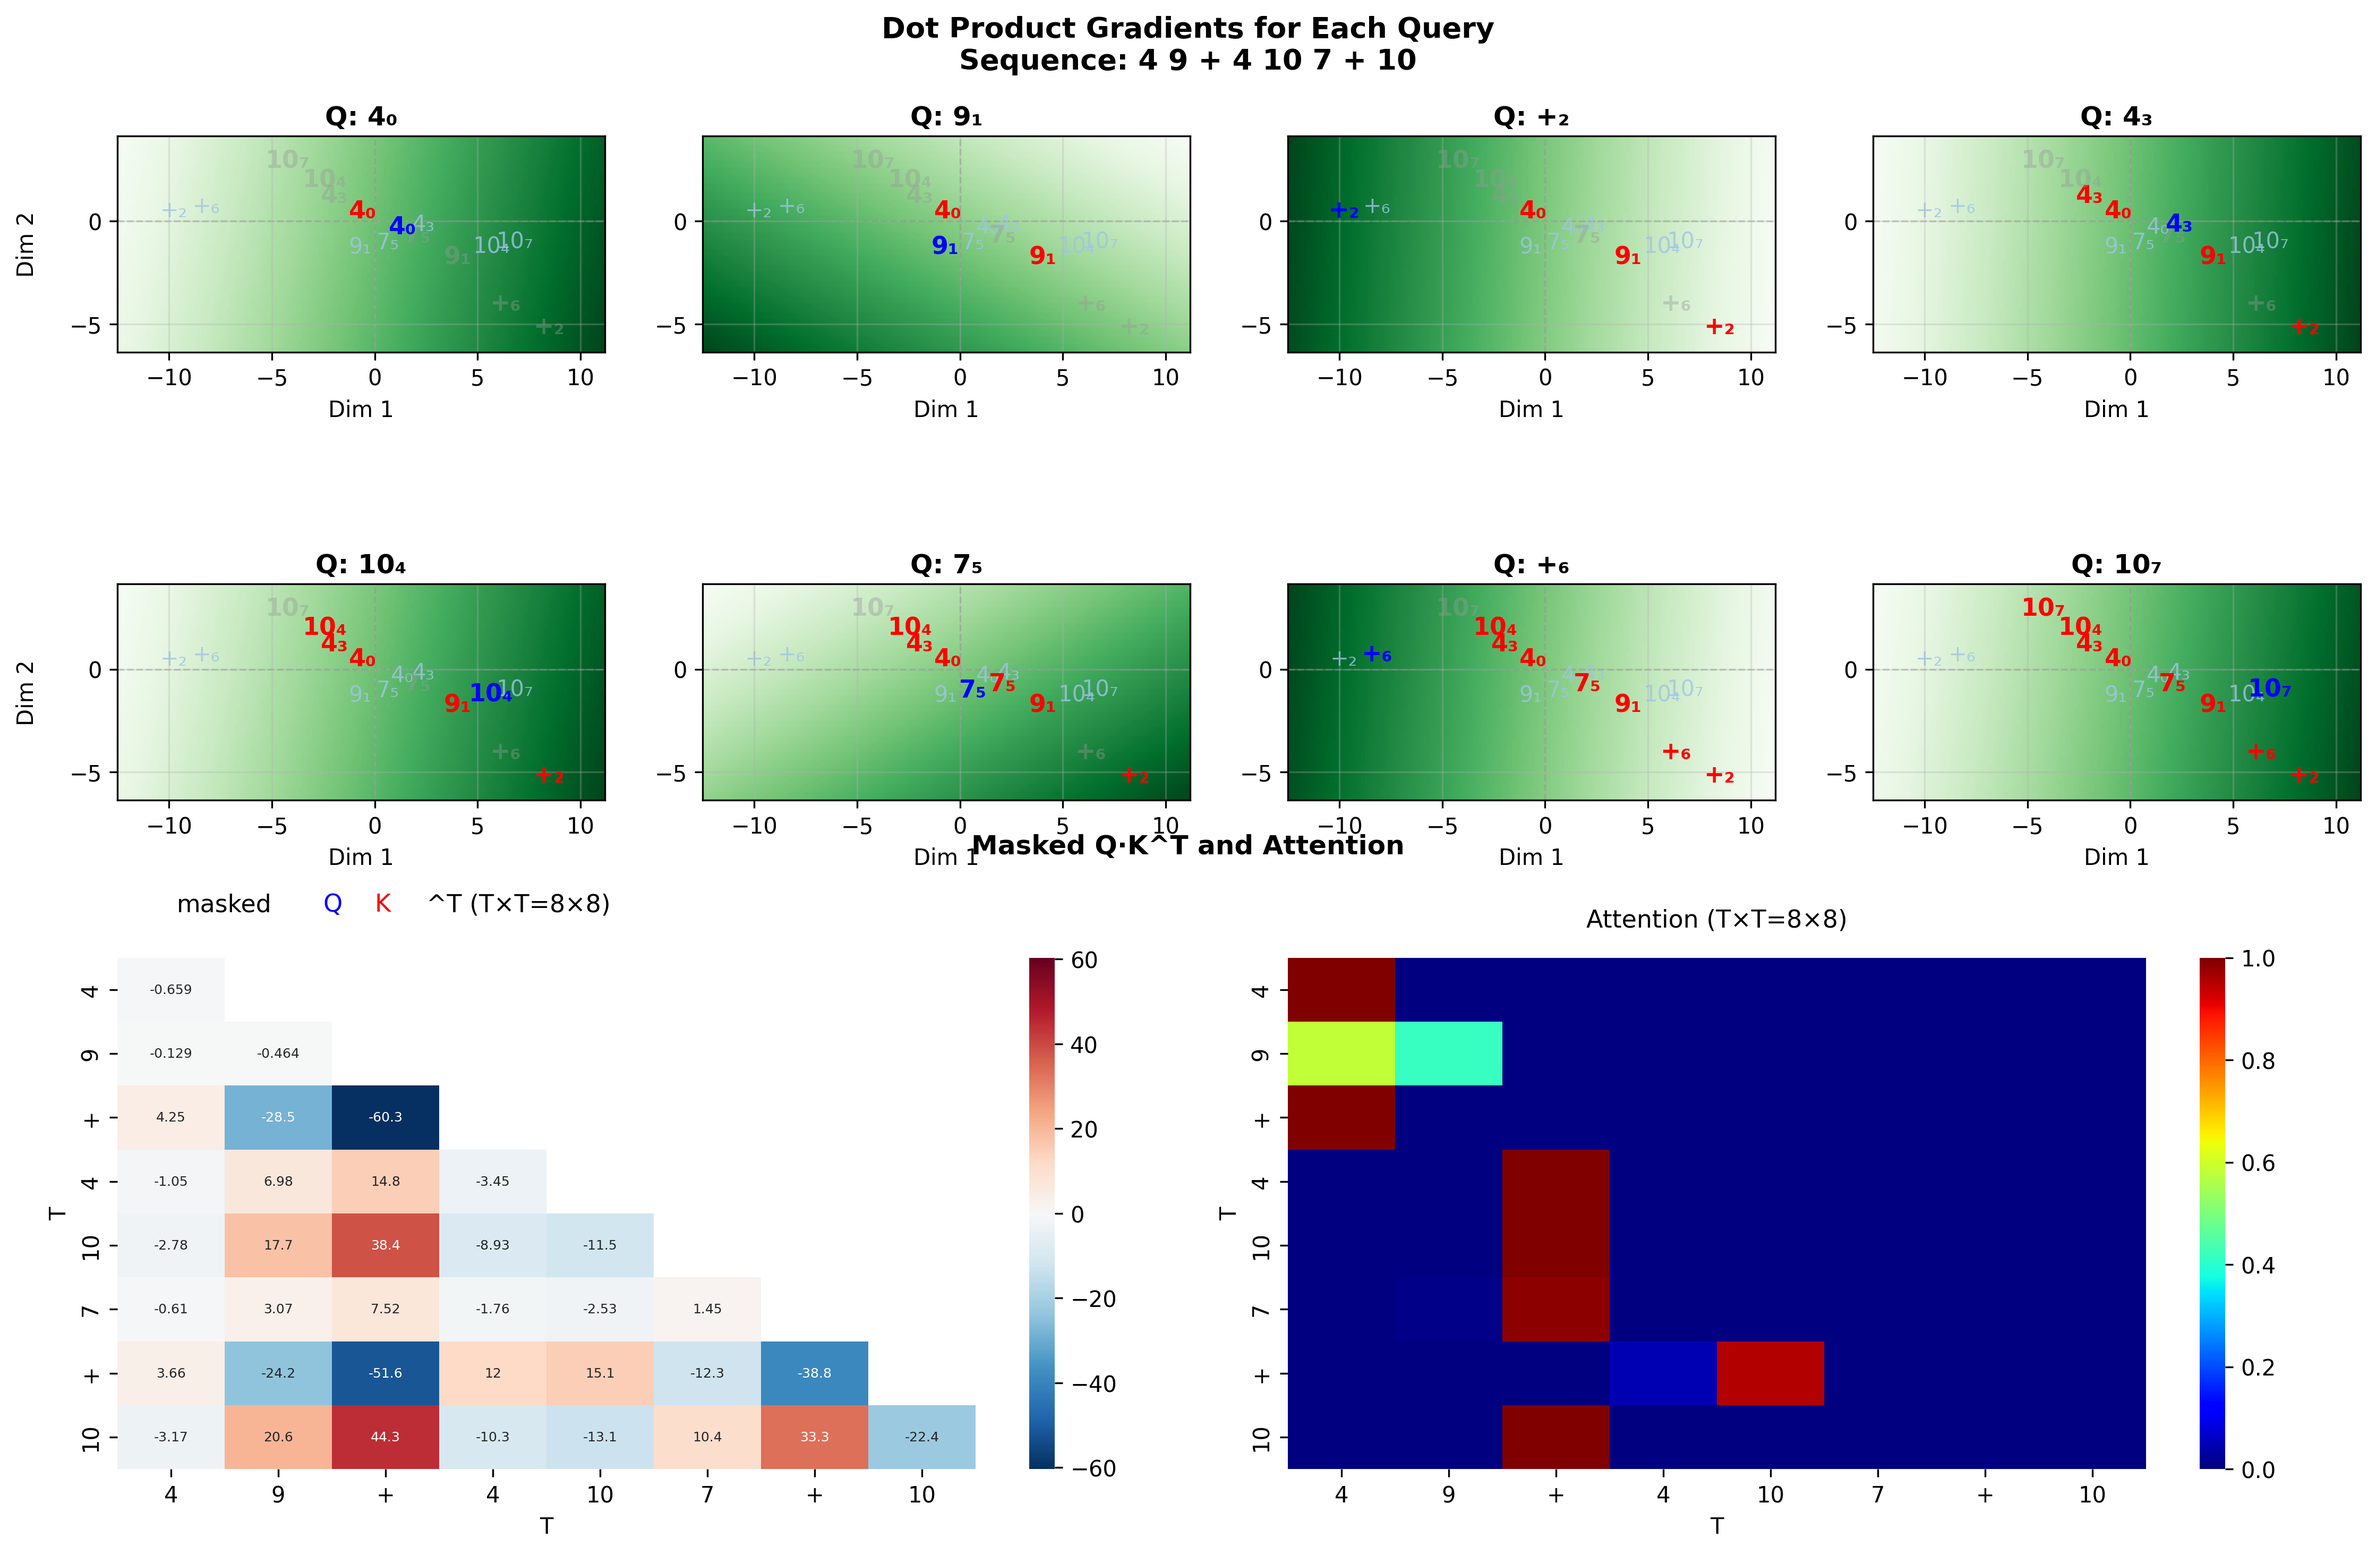
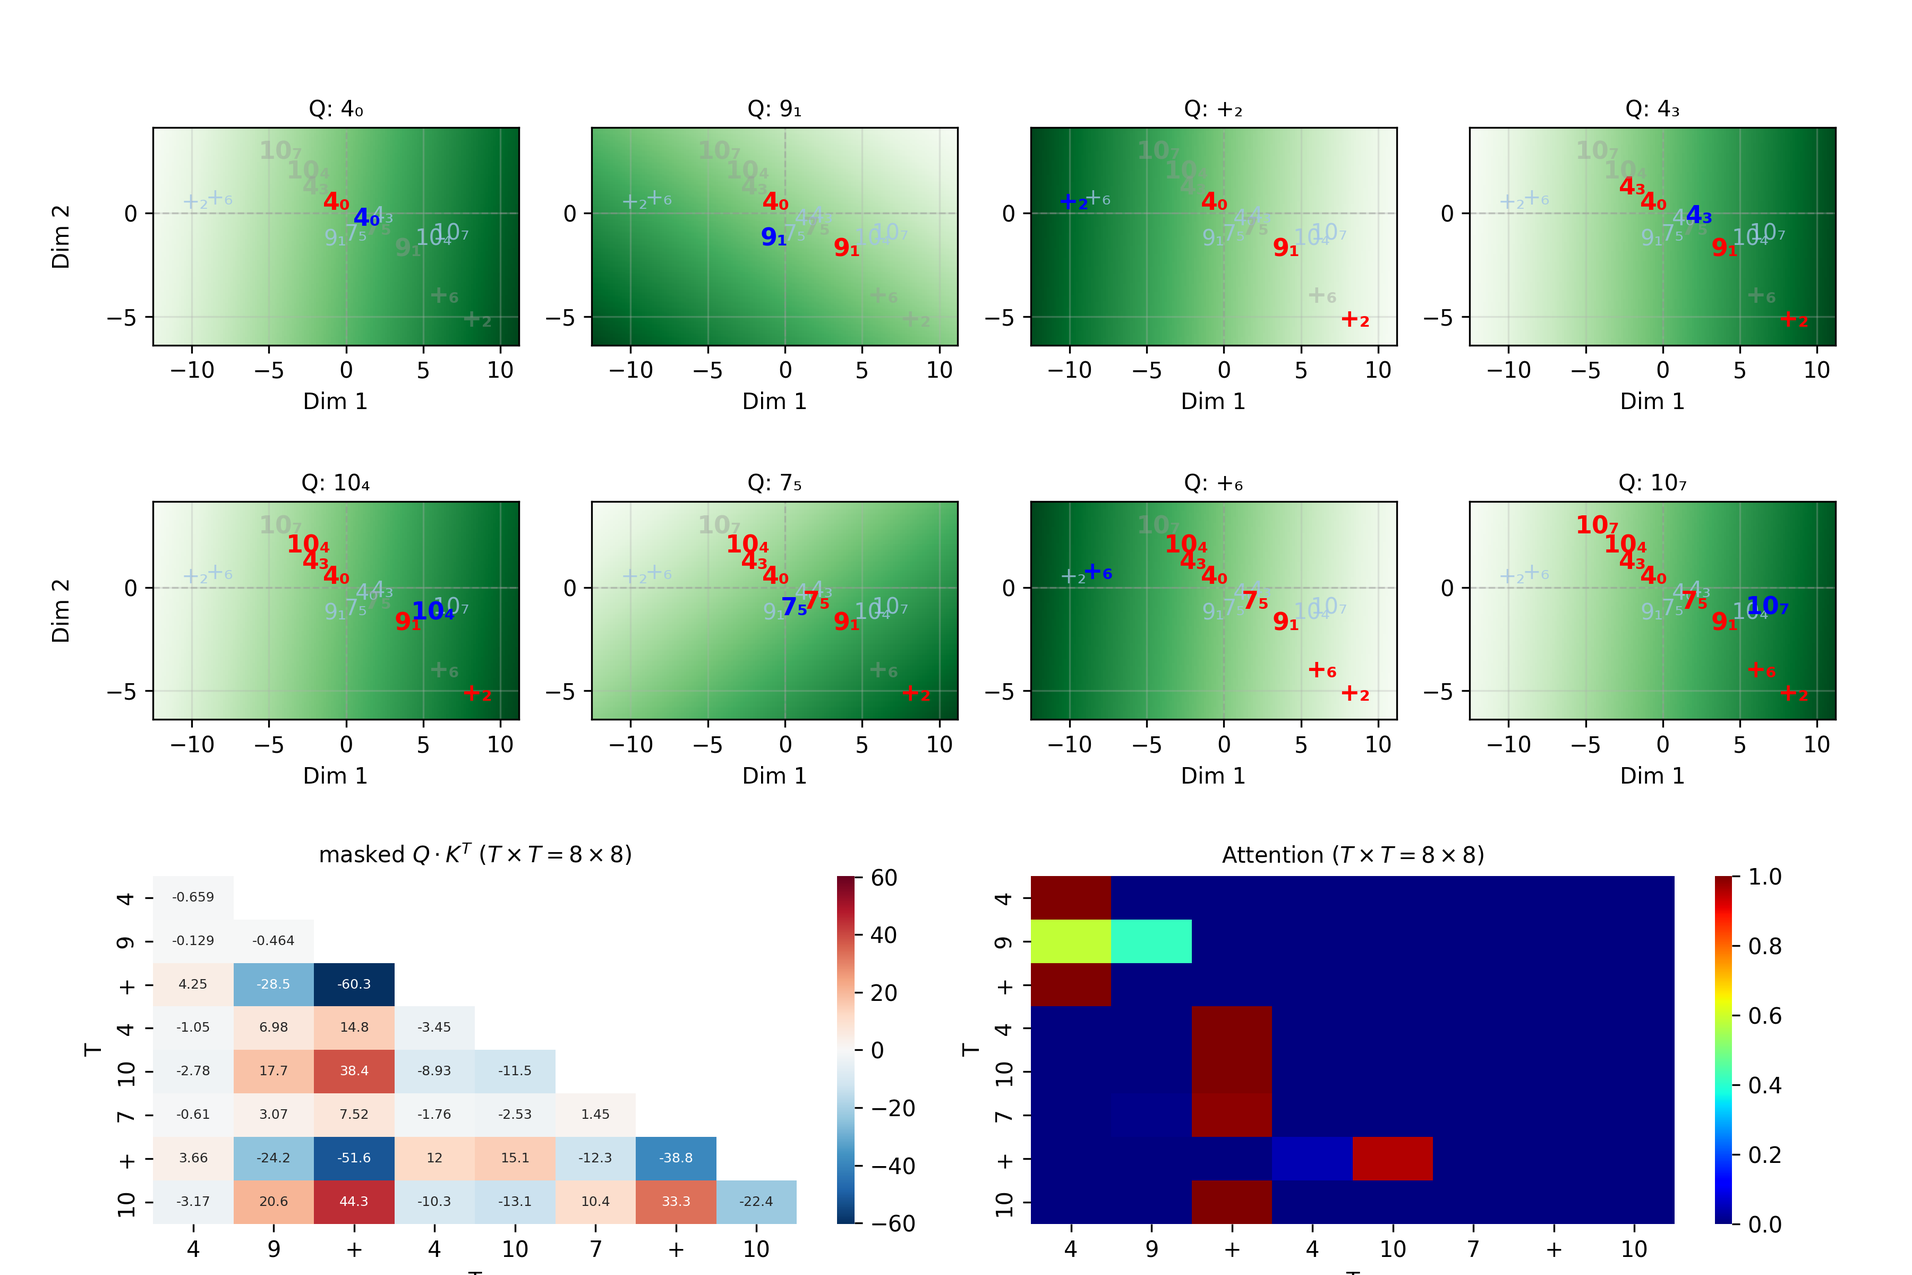
fixes

diff --git a/plotting/plots.py b/plotting/plots.py
@@ -3271,13 +3271,13 @@ def plot_q_dot_product_gradients(model, X_list, itos, save_path=None, num_sequen
         wei_all.append(wei[0].cpu().numpy())
     Attention = np.stack(wei_all, axis=0).mean(axis=0)
 
-    # Grid: 2 rows of gradient panels + 1 row for heatmaps. Square content via set_aspect('equal') on axes.
-    n_rows, n_cols = 2, 4
-    height_ratios = [1, 1, 1.4]
-    fig = plt.figure(figsize=(4 * n_cols, 2.8 * n_rows + 4.0))
+    # Grid: 2 rows of gradient panels + 1 row for heatmaps. Make gradient cells square from actual positions.
+    n_rows, n_cols = 1, 4
+    height_ratios = [1, 1, 1.6]
+    fig = plt.figure(figsize=(12, 8))
     gs = GridSpec(3, n_cols, figure=fig,
-                  left=0.08, right=0.96, top=0.96, bottom=0.04,
-                  height_ratios=height_ratios)
+                  left=0.08, right=0.96, top=0.90, bottom=0.04,
+                  height_ratios=height_ratios, hspace=0.6)
     
     # Number of queries to show (up to 8)
     num_queries_to_show = min(8, T)
@@ -3294,6 +3294,12 @@ def plot_q_dot_product_gradients(model, X_list, itos, save_path=None, num_sequen
         col = idx % n_cols
         ax = fig.add_subplot(gs[row, col])
         _grad_axes.append(ax)
+        # # Resize figure so gradient cells are square (do once, from first cell's slot before aspect/plotting)
+        # if idx == 0:
+        #     pos = ax.get_position()
+        #     fig_h = 8.0
+        #     fig_w = fig_h * pos.height / pos.width
+        #     fig.set_size_inches(fig_w, fig_h)
         
         # Get the Q vector for this query
         q_focus_2d = Q_2d[idx]  # (2,)
@@ -3339,9 +3345,9 @@ def plot_q_dot_product_gradients(model, X_list, itos, save_path=None, num_sequen
             ax.set_ylabel("Dim 2" + (" (PCA)" if Q.shape[1] > 2 else ""), fontsize=10, labelpad=14)
         else:
             ax.set_ylabel("")
-        ax.set_title(f"Q: {_token_pos_label(tokens[idx], idx)}", fontsize=12, fontweight='bold', pad=5)
+        ax.set_title(f"Q: {_token_pos_label(tokens[idx], idx)}", fontsize=10, fontweight='normal', pad=5)
         ax.grid(True, alpha=0.3)
-        ax.set_aspect('equal', adjustable='box')
+        # ax.set_aspect('equal')
         ax.tick_params(axis='y', left=True, right=False, labelleft=True, labelright=False)
     
     # Row 3: masked QK^T (cols 0-1) and Attention (cols 2-3)
@@ -3360,33 +3366,21 @@ def plot_q_dot_product_gradients(model, X_list, itos, save_path=None, num_sequen
                vmin=-lim, vmax=lim, annot_kws={"fontsize": 6})
     ax_masked.set_xlabel("T", fontsize=10)
     ax_masked.set_ylabel("T", fontsize=10)
-    ax_masked.text(0.18, 1.08, "masked", transform=ax_masked.transAxes, ha='right', va='bottom', color='black', fontsize=11)
-    ax_masked.text(0.24, 1.08, "Q", transform=ax_masked.transAxes, ha='left', va='bottom', color='blue', fontsize=11)
-    ax_masked.text(0.30, 1.08, "K", transform=ax_masked.transAxes, ha='left', va='bottom', color='red', fontsize=11)
-    ax_masked.text(0.36, 1.08, f"^T (T\u00d7T={T}\u00d7{T})", transform=ax_masked.transAxes, ha='left', va='bottom', fontsize=11)
+    ax_masked.set_title(r"masked $Q \cdot K^T$ ($T \times T = {} \times {}$)".format(T, T), fontsize=10, fontweight='normal', pad=6)
 
     ax_att = fig.add_subplot(gs[2, 2:4])
     sns.heatmap(Attention, cmap="jet", vmin=0.0, vmax=1.0,
                xticklabels=tokens, yticklabels=tokens, cbar=True, ax=ax_att)
     ax_att.set_xlabel("T", fontsize=10)
     ax_att.set_ylabel("T", fontsize=10)
-    ax_att.set_title(f"Attention (T\u00d7T={T}\u00d7{T})", fontsize=11, pad=14)
+    ax_att.set_title(r"Attention ($T \times T = {} \times {}$)".format(T, T), fontsize=10, fontweight='normal', pad=6)
 
     _label_panels(_grad_axes + [ax_masked, ax_att], fontsize=10)
 
-    # Add overall title with better positioning
-    fig.suptitle(f"Dot Product Gradients for Each Query\nSequence: {seq_str}", 
-                 fontsize=13, fontweight='bold', y=0.99)
-
     # Skip tight_layout to preserve equal-aspect gradient plots and our GridSpec spacing
 
-    # Bottom row section title: place well above the heatmaps so it doesn't collide with subplot (i) title
-    bbox = ax_masked.get_position()
-    _row_title_fs = 10 if _JOURNAL_MODE else 12
-    fig.text(0.5, bbox.ymax + 0.068, "Masked Q·K^T and Attention", ha='center', fontsize=_row_title_fs, fontweight='bold')
-
     if save_path:
-        plt.savefig(save_path, bbox_inches='tight', dpi=300, facecolor='white')
+        plt.savefig(save_path, dpi=300, facecolor='white')  # no bbox_inches='tight' to preserve square panels
         plt.close()
         print(f"Q dot product gradients plot saved to {save_path}")
     else:

diff --git a/scripts/run_q_dot_product_gradients_interactive.py b/scripts/run_q_dot_product_gradients_interactive.py
@@ -1,0 +1,43 @@
+"""Run the Q dot product gradients plot in an interactive pyplot window.
+   Use this to tweak layout/parameters and see the figure update.
+
+   Command (from repo root):
+     python scripts/run_q_dot_product_gradients_interactive.py
+"""
+import sys
+from pathlib import Path
+
+# Run from repo root so imports work
+sys.path.insert(0, str(Path(__file__).resolve().parent.parent))
+
+import torch
+from config_loader import load_config
+from checkpoint import load_checkpoint
+from plotting import plot_q_dot_product_gradients
+
+# Same sequence used by visualize for consistency
+FIXED_SEQUENCE_DECODED = [4, 9, "+", 4, 10, 7, "+", 10]
+
+
+def main():
+    config = load_config("plus_last_even")
+    checkpoint_data = load_checkpoint(config["name"], step=None)
+    if checkpoint_data is None:
+        raise SystemExit("No checkpoint found for plus_last_even. Train or ensure checkpoints exist.")
+
+    model = checkpoint_data["model"]
+    itos = checkpoint_data["itos"]
+    stoi = checkpoint_data["stoi"]
+    block_size = checkpoint_data["model_config"]["block_size"]
+
+    # Encode fixed sequence to token ids
+    consistent_sequence = [stoi[str(t)] for t in FIXED_SEQUENCE_DECODED]
+    X = torch.tensor(consistent_sequence[:block_size], dtype=torch.long).unsqueeze(0)
+    X_list = [X]
+
+    # save_path=None => figure pops up; you can resize and inspect
+    plot_q_dot_product_gradients(model, X_list, itos, save_path=None, num_sequences=1)
+
+
+if __name__ == "__main__":
+    main()
